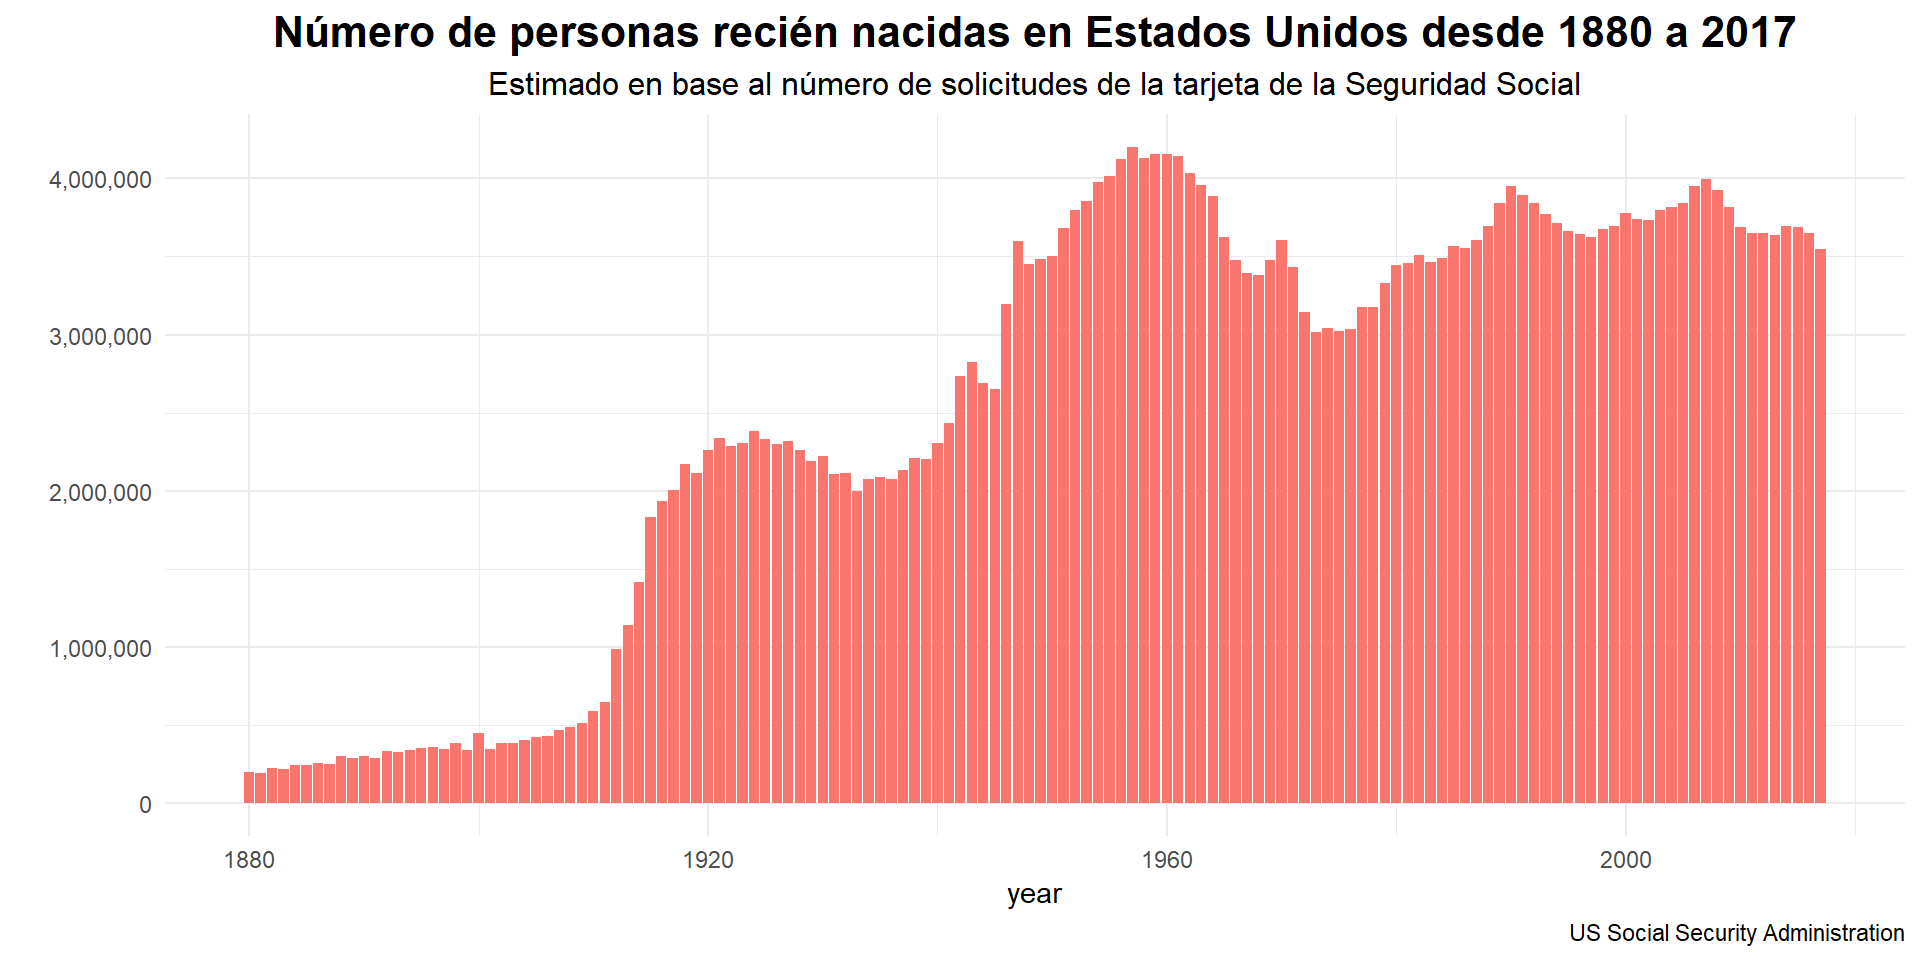
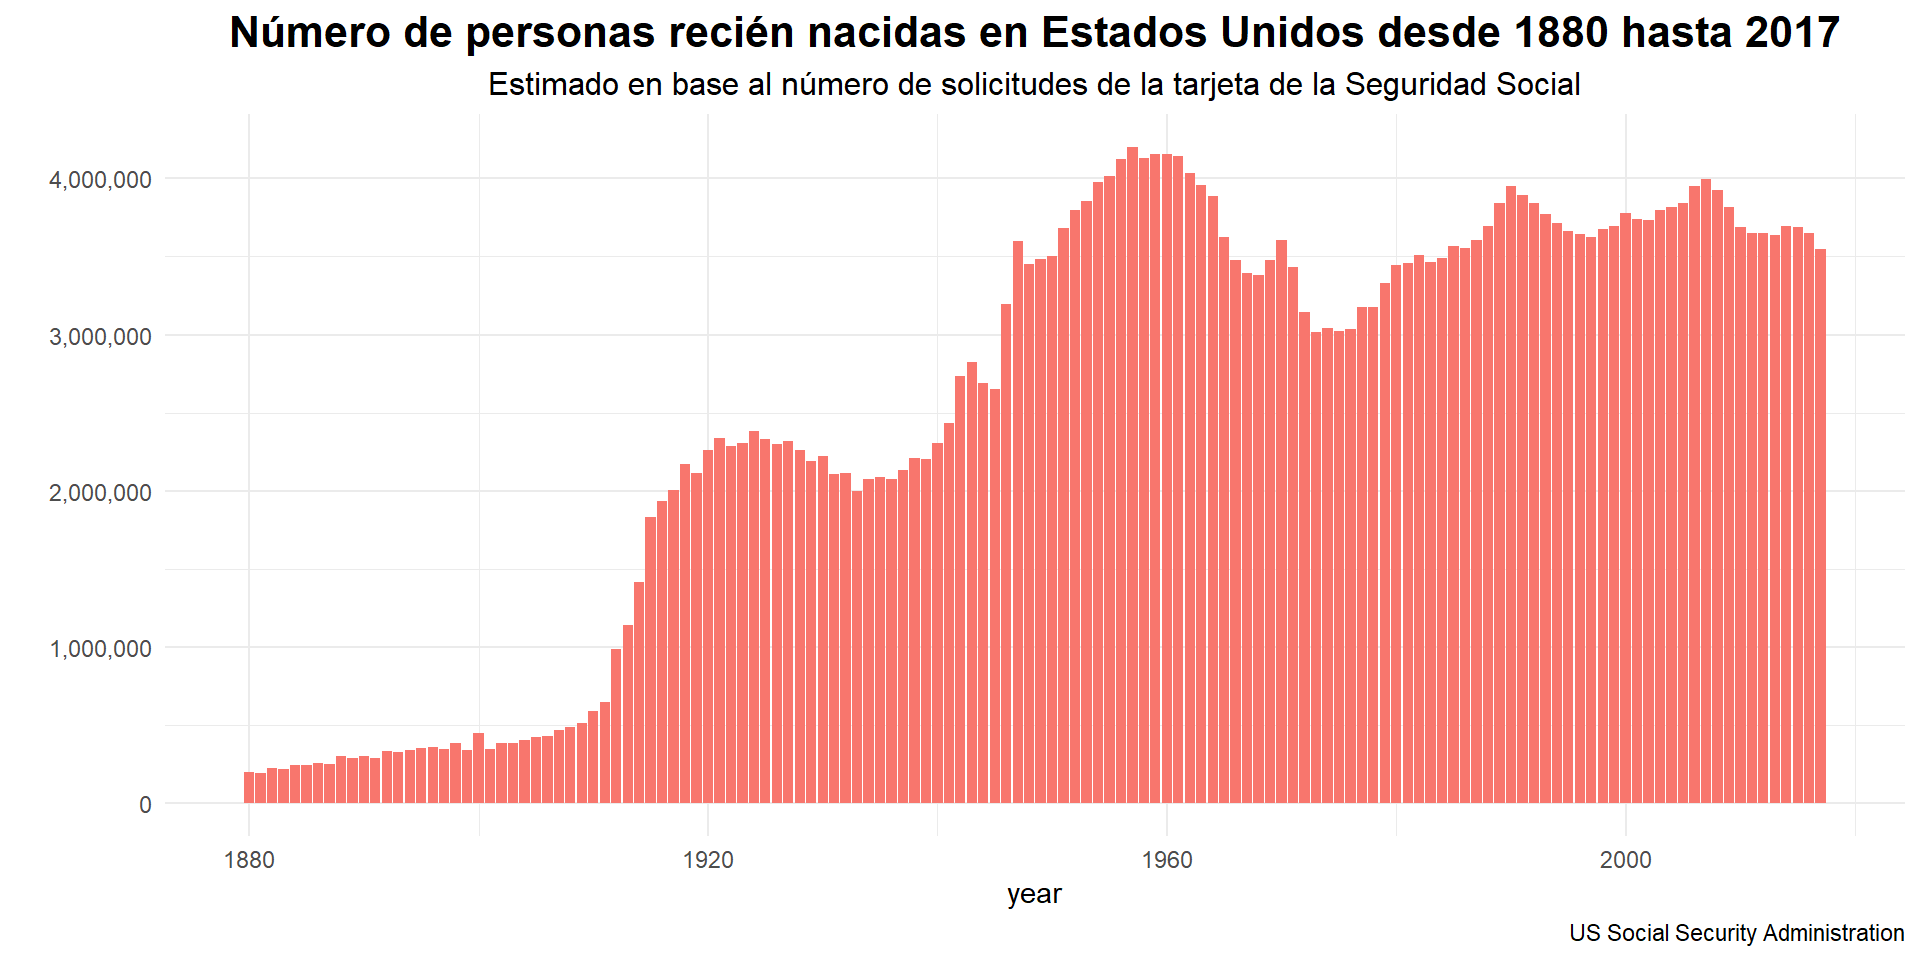
correcciones

Changed region(s): [[0.125, 0.0, 0.9688, 0.0625]]

diff --git a/content/babynames_gganimate.html b/content/babynames_gganimate.html
@@ -167,7 +167,7 @@ plot_babynames_stack &lt;- babynames_year %&gt;%
 <p><br />
 </p>
 <pre class="r"><code>
-animate(plot_babynames_stack, nframes= 300, width = 400, height = 600, fps = 10)</code></pre>
+animate(plot_babynames_stack, nframes= 300, width = 600, height = 600, fps = 10)</code></pre>
 <p><img src="/babynames_gganimate_files/figure-html/unnamed-chunk-7-1.gif" width="60%" style="display: block; margin: auto;" /></p>
 <pre class="r"><code>
 # guardamos el gráfico en formato .gif
@@ -193,7 +193,7 @@ babynames %&gt;%
   guides(fill=F) +
   labs( x= &quot;year&quot;, 
         y= &quot; &quot;,
-        title = &quot;Número de personas recién nacidas en Estados Unidos desde 1880 a 2017&quot;,
+        title = &quot;Número de personas recién nacidas en Estados Unidos desde 1880 hasta 2017&quot;,
         subtitle = &quot;Estimado en base al número de solicitudes de la tarjeta de la Seguridad Social&quot;,
         caption =  &quot;US Social Security Administration&quot;) +
   theme(plot.title = element_text(size = 16, 
@@ -219,7 +219,7 @@ plot_babynames_transition &lt;- babynames %&gt;%
   guides(fill=F) +
   labs( x= &quot;year&quot;, 
         y= &quot; &quot;,
-        title = &quot;Número de personas recién nacidas en Estados Unidos desde 1880 a 2017 \n Year : {closest_state}&quot;, 
+        title = &quot;Número de personas recién nacidas en Estados Unidos desde 1880 hasta 2017 \n Year : {closest_state}&quot;, 
         subtitle = &quot;Estimado en base al número de solicitudes de la tarjeta de la Seguridad Social&quot;,
         caption =  &quot;US Social Security Administration&quot;) +
   transition_states(year, wrap = F) +
@@ -261,7 +261,7 @@ plot_babynames_transition_2 &lt;- babynames %&gt;%
   guides(fill=F) +
   labs( x= &quot;year&quot;, 
         y= &quot; &quot;,
-        title = &quot;Número de personas recién nacidas en Estados Unidos desde 1910 a 1950 \n Year : {closest_state}&quot;, 
+        title = &quot;Número de personas recién nacidas en Estados Unidos desde 1910 hasta 1950 \n Year : {closest_state}&quot;, 
         subtitle = &quot;Estimado en base al número de solicitudes de la tarjeta de la Seguridad Social&quot;,
         caption =  &quot;US Social Security Administration&quot;) +
   transition_states(year, wrap = F) +

diff --git a/public/babynames_gganimate/index.html b/public/babynames_gganimate/index.html
@@ -254,7 +254,7 @@ plot_babynames_stack &lt;- babynames_year %&gt;%
 <p><br />
 </p>
 <pre class="r"><code>
-animate(plot_babynames_stack, nframes= 300, width = 400, height = 600, fps = 10)</code></pre>
+animate(plot_babynames_stack, nframes= 300, width = 600, height = 600, fps = 10)</code></pre>
 <p><img src="/babynames_gganimate_files/figure-html/unnamed-chunk-7-1.gif" width="60%" style="display: block; margin: auto;" /></p>
 <pre class="r"><code>
 # guardamos el gráfico en formato .gif
@@ -280,7 +280,7 @@ babynames %&gt;%
   guides(fill=F) +
   labs( x= &quot;year&quot;, 
         y= &quot; &quot;,
-        title = &quot;Número de personas recién nacidas en Estados Unidos desde 1880 a 2017&quot;,
+        title = &quot;Número de personas recién nacidas en Estados Unidos desde 1880 hasta 2017&quot;,
         subtitle = &quot;Estimado en base al número de solicitudes de la tarjeta de la Seguridad Social&quot;,
         caption =  &quot;US Social Security Administration&quot;) +
   theme(plot.title = element_text(size = 16, 
@@ -306,7 +306,7 @@ plot_babynames_transition &lt;- babynames %&gt;%
   guides(fill=F) +
   labs( x= &quot;year&quot;, 
         y= &quot; &quot;,
-        title = &quot;Número de personas recién nacidas en Estados Unidos desde 1880 a 2017 \n Year : {closest_state}&quot;, 
+        title = &quot;Número de personas recién nacidas en Estados Unidos desde 1880 hasta 2017 \n Year : {closest_state}&quot;, 
         subtitle = &quot;Estimado en base al número de solicitudes de la tarjeta de la Seguridad Social&quot;,
         caption =  &quot;US Social Security Administration&quot;) +
   transition_states(year, wrap = F) +
@@ -348,7 +348,7 @@ plot_babynames_transition_2 &lt;- babynames %&gt;%
   guides(fill=F) +
   labs( x= &quot;year&quot;, 
         y= &quot; &quot;,
-        title = &quot;Número de personas recién nacidas en Estados Unidos desde 1910 a 1950 \n Year : {closest_state}&quot;, 
+        title = &quot;Número de personas recién nacidas en Estados Unidos desde 1910 hasta 1950 \n Year : {closest_state}&quot;, 
         subtitle = &quot;Estimado en base al número de solicitudes de la tarjeta de la Seguridad Social&quot;,
         caption =  &quot;US Social Security Administration&quot;) +
   transition_states(year, wrap = F) +
